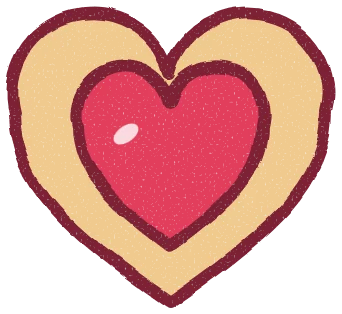
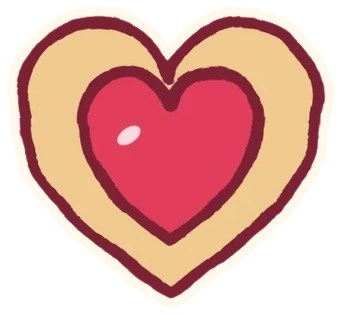
Clear the grain out of the drawings
The stickers, cup and rings had speckled transparency baked in, so the
burgundy showed through as grain; their fills are solid now. The rough
filter keeps its wobble but loses its noise. Stickers and the hero cup
get a thin cream border so their dark outlines read on burgundy.

Changed region(s): [[0.0, 0.0, 0.9942, 1.0], [0.3216, 0.3726, 0.4386, 0.5159], [0.4678, 0.3153, 0.5263, 0.3726]]

diff --git a/index.html b/index.html
@@ -315,10 +315,7 @@ html.gl .field canvas{opacity:1}
   <symbol id="i-heart" viewBox="-2 -2 28 28"><path d="M12 21C5 15 1 11.5 1 7.5A5.3 5.3 0 0 1 12 5a5.3 5.3 0 0 1 11 2.5c0 4-4 7.5-11 13.5Z" fill="currentColor"/></symbol>
   <filter id="sb-rough" x="-5%" y="-5%" width="110%" height="110%">
     <feTurbulence type="fractalNoise" baseFrequency="0.04" numOctaves="2" seed="4" result="w"/>
-    <feDisplacementMap in="SourceGraphic" in2="w" scale="3" xChannelSelector="R" yChannelSelector="G" result="d"/>
-    <feTurbulence type="fractalNoise" baseFrequency="1.1" numOctaves="1" seed="9" result="g"/>
-    <feColorMatrix in="g" type="matrix" values="0 0 0 0 0 0 0 0 0 0 0 0 0 0 0 -2.6 0 0 0 2.3" result="m"/>
-    <feComposite in="d" in2="m" operator="in"/>
+    <feDisplacementMap in="SourceGraphic" in2="w" scale="3" xChannelSelector="R" yChannelSelector="G"/>
   </filter>
 </svg>
 
